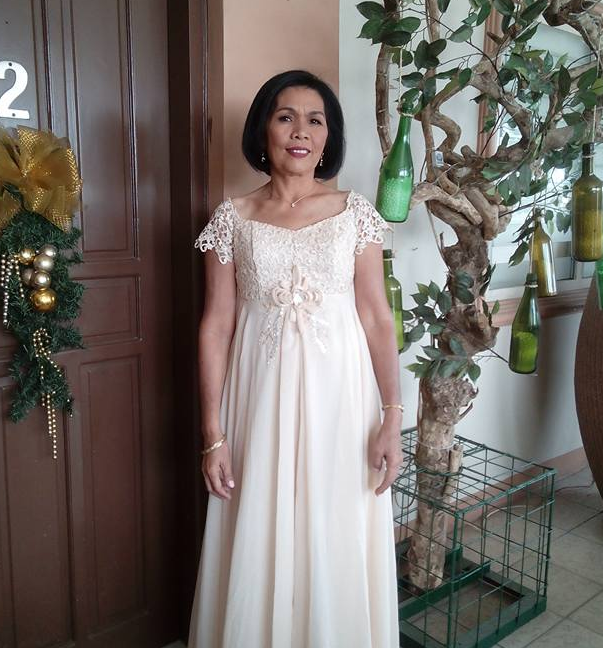
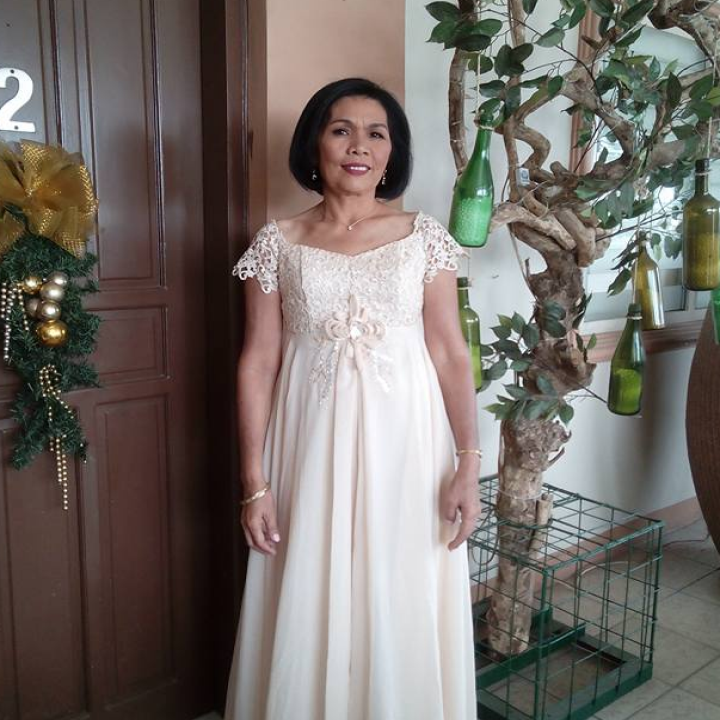
BoD edited.

diff --git a/home.html b/home.html
@@ -756,7 +756,7 @@
                 <div class="col-sm-6 col-md-3">
                     <div class="team-member wow fadeInUp" data-wow-duration="400ms" data-wow-delay="0ms">
                         <div class="team-img">
-                            <img class="img-responsive" src="assets/images/Photos/BoD/LinsPosecion.png" alt="">
+                            <img class="img-responsive" src="assets/images/Photos/BoD/Lina.png" alt="">
                         </div>
                         <div class="team-info">
                             <h3>Mrs. Lina Posecion</h3>
@@ -784,8 +784,7 @@
                         </div>
                         <p>Graduated Graphic Design at George Brown College Career Services in Toronto, Canada <br>
                             Studied also at University of Iloilo in the Philippines and Seneca College in Newham, Canada <br>
-                            Hobbies: Bowling and table tennis. <br>
-                            <b>Quote: ‘Redeeming the time . . . life begin and ends too soon. Everyday is a gift, a one-time opportunity to live for God’.</b>
+                            <b>Quote: ‘Redeeming the time, life begin and ends too soon. Everyday is a gift, a one-time opportunity to live for God’.</b>
                             </p>
                         <!-- <ul class="social-icons">
                             <li><a href="#"><i class="fa fa-facebook"></i></a></li>
@@ -927,16 +926,14 @@
                         <!-- Wrapper for slides -->
                         <div class="carousel-inner" role="listbox">
                             <div class="item active">
-                                <p><img class="img-circle img-thumbnail" src="images/testimonial/01.jpg" alt=""></p>
-                                <h4>Louise S. Morgan</h4>
-                                <small>Treatment, storage, and disposal (TSD) worker</small>
-                                <p>Lorem ipsum dolor sit amet, consectetur adipisicing elit, sed do eiusmod tempor incididunt ut et dolore magna aliqua. Ut enim ad minim veniam</p>
+                                <h4>Person Name</h4>
+                                <small>Date</small>
+                                <p>Testimony</p>
                             </div>
                             <div class="item">
-                                <p><img class="img-circle img-thumbnail" src="images/testimonial/01.jpg" alt=""></p>
-                                <h4>Louise S. Morgan</h4>
-                                <small>Treatment, storage, and disposal (TSD) worker</small>
-                                <p>Lorem ipsum dolor sit amet, consectetur adipisicing elit, sed do eiusmod tempor incididunt ut et dolore magna aliqua. Ut enim ad minim veniam</p>
+                                <h4>Person Name</h4>
+                                <small>Date</small>
+                                <p>Testimony</p>
                             </div>
                         </div>
 
